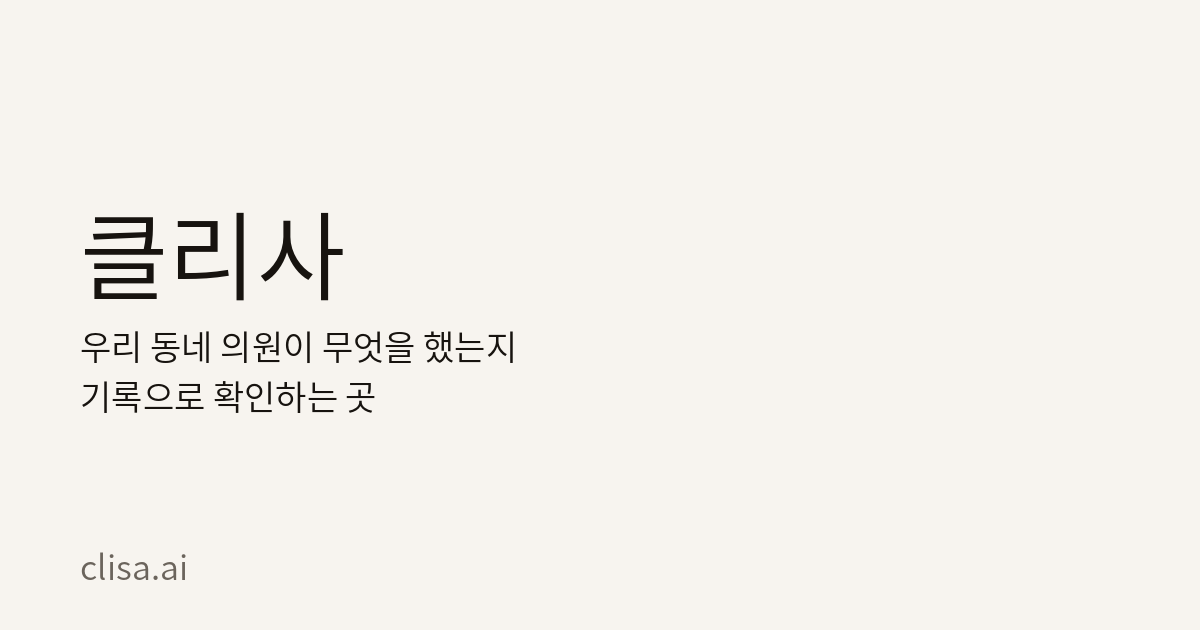
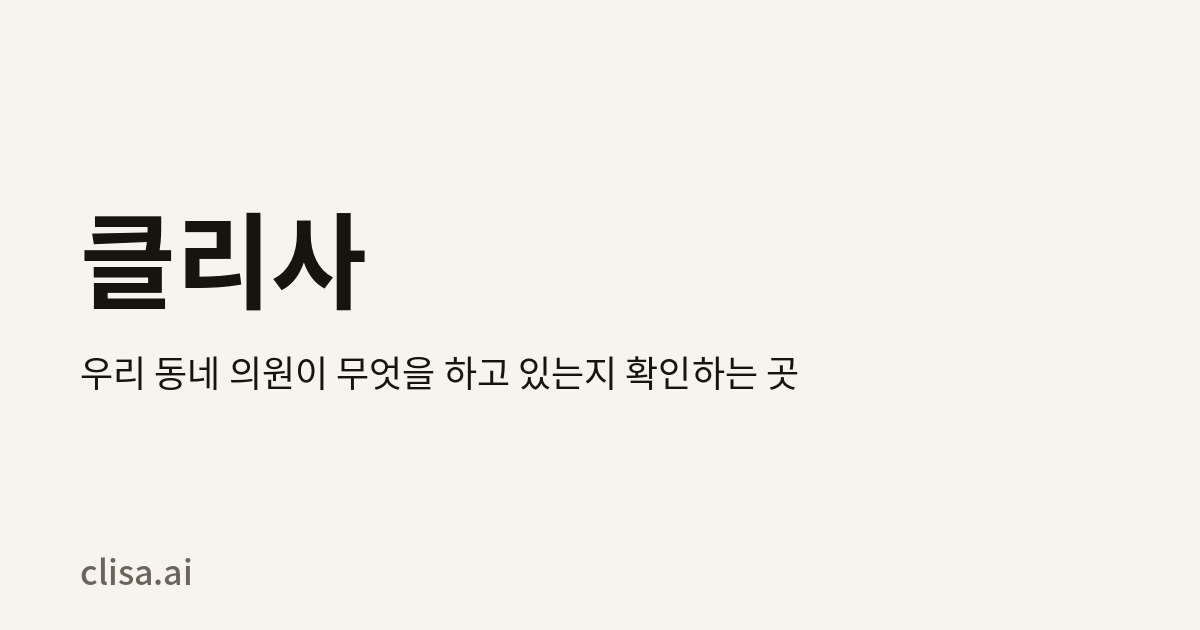
patch 30a: 카드 문구 통일(og.png, og:description)

Changed region(s): [[0.0617, 0.3317, 0.6783, 0.6635], [0.0617, 0.8746, 0.1542, 0.9349]]

diff --git a/index.html b/index.html
@@ -1,4 +1,4 @@
-<!doctype html><html lang="ko"><head><meta charset="utf-8"><title>클리사</title><meta name="viewport" content="width=device-width,initial-scale=1"><meta name="description" content="우리 동네 의원이 무엇을 하고 있는지 확인하는 곳. 시범 운영 중이며 전국 대상으로 확대할 예정"><meta name="robots" content="index,follow"><link rel="icon" href="/icon.svg" type="image/svg+xml"><link rel="canonical" href="https://clisa.ai/"><meta property="og:type" content="website"><meta property="og:site_name" content="클리사"><meta property="og:url" content="https://clisa.ai/"><meta property="og:title" content="클리사"><meta property="og:description" content="우리 동네 의원이 무엇을 하고 있는지 확인하는 곳. 점수는 의안과 회의록에 남은 사실만으로 계산합니다."><meta property="og:image" content="https://clisa.ai/og.png"><meta property="og:image:width" content="1200"><meta property="og:image:height" content="630"><meta name="twitter:card" content="summary_large_image"><meta name="twitter:title" content="클리사"><meta name="twitter:image" content="https://clisa.ai/og.png"></head><body>
+<!doctype html><html lang="ko"><head><meta charset="utf-8"><title>클리사</title><meta name="viewport" content="width=device-width,initial-scale=1"><meta name="description" content="우리 동네 의원이 무엇을 하고 있는지 확인하는 곳. 시범 운영 중이며 전국 대상으로 확대할 예정"><meta name="robots" content="index,follow"><link rel="icon" href="/icon.svg" type="image/svg+xml"><link rel="canonical" href="https://clisa.ai/"><meta property="og:type" content="website"><meta property="og:site_name" content="클리사"><meta property="og:url" content="https://clisa.ai/"><meta property="og:title" content="클리사"><meta property="og:description" content="우리 동네 의원이 무엇을 하고 있는지 확인하는 곳. 시범 운영 중이며 전국 대상으로 확대할 예정"><meta property="og:image" content="https://clisa.ai/og.png"><meta property="og:image:width" content="1200"><meta property="og:image:height" content="630"><meta name="twitter:card" content="summary_large_image"><meta name="twitter:title" content="클리사"><meta name="twitter:image" content="https://clisa.ai/og.png"></head><body>
 
 <link rel="stylesheet" href="https://fonts.googleapis.com/css2?family=Archivo:wght@500;700;900&family=Noto+Sans+KR:wght@400;500;700&display=swap">
 <style>
